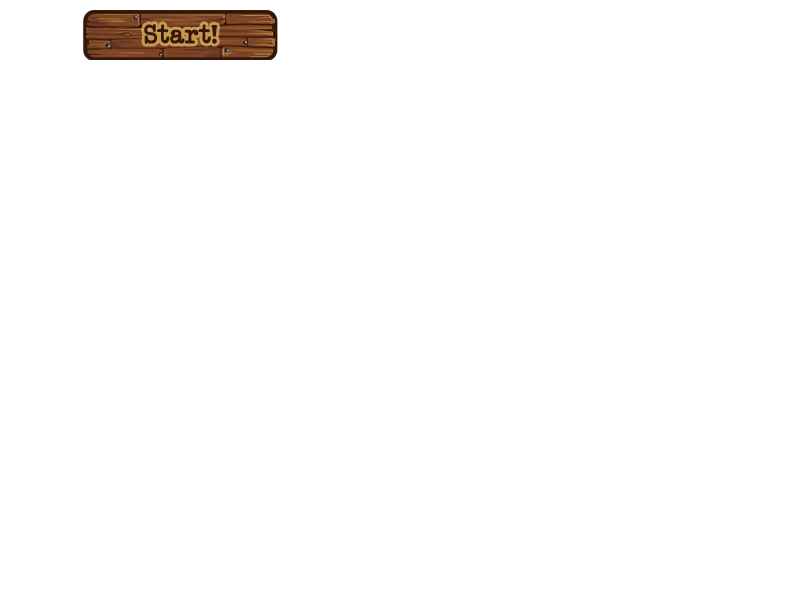
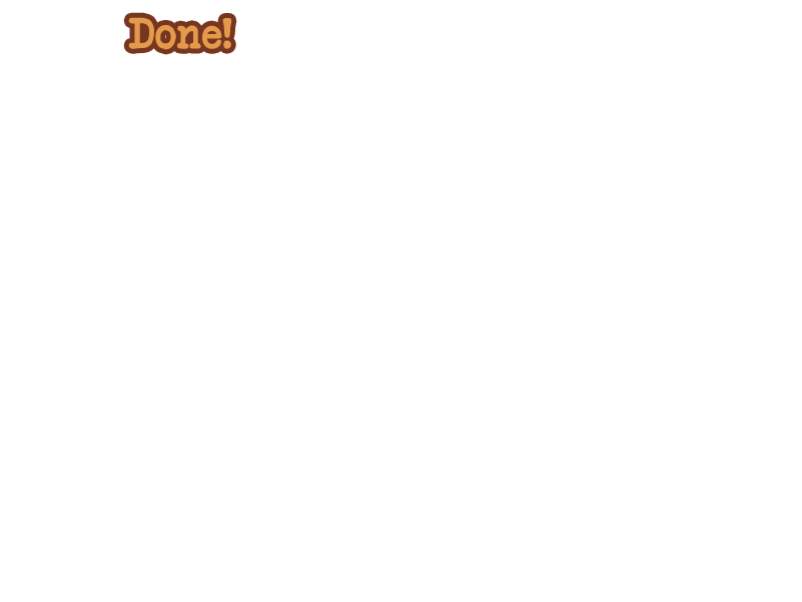
Adjusted done png, added start png, centered start button

Changed region(s): [[0.0936, 0.0, 0.3745, 0.1198]]

diff --git a/js/screens.js b/js/screens.js
@@ -6,6 +6,7 @@ function LoadingScreen( stage, gameState ){
     this.pictureFront = new createjs.Bitmap( "res/screens/LoadingScreen/PanFront.png" );
     this.cooking = new createjs.Bitmap( "res/screens/LoadingScreen/TextCooking.png" );
     this.done = new createjs.Bitmap( "res/screens/LoadingScreen/TextDone.png" );
+	this.start = new createjs.Bitmap( "res/screens/LoadingScreen/TextStart.png" );
     this.turkeyState = [ new createjs.Bitmap( "res/screens/LoadingScreen/Turkey0.png" ),
     					 new createjs.Bitmap( "res/screens/LoadingScreen/Turkey25.png" ),
     					 new createjs.Bitmap( "res/screens/LoadingScreen/Turkey50.png" ),
@@ -13,6 +14,7 @@ function LoadingScreen( stage, gameState ){
     					 new createjs.Bitmap( "res/screens/LoadingScreen/TurkeyDone.png" ) ];
 
 	this.done.alpha= 0;
+	this.start.alpha = 0;
 	stage.addChild( this.picture );
 	stage.addChild( this.cooking );
 	stage.addChild( this.turkeyState[0] );
@@ -29,6 +31,7 @@ function LoadingScreen( stage, gameState ){
 			that.lastPercent = percent;
 			stage.addChild( that.turkeyState[wholeNum] );
 			stage.addChild( that.pictureFront );
+			stage.addChild( that.start );
 		}
 
 		//If we're still on image one, don't fade it out, it's the base image!
@@ -40,10 +43,11 @@ function LoadingScreen( stage, gameState ){
 			that.turkeyState[4].alpha = 1;
 			that.cooking.alpha=0;
 			that.done.alpha = 1;
+			that.start.alpha = 2;
 
-			that.done.addEventListener( "mouseover", function(){ document.body.style.cursor='pointer'; } );
-		 	that.done.addEventListener( "mouseout", function(){ document.body.style.cursor='default'; } );
- 			that.done.addEventListener( "click",  function(){ gameState.pubsub.publish("SwitchScreen", "MainScreen"); });
+			that.start.addEventListener( "mouseover", function(){ document.body.style.cursor='pointer'; } );
+		 	that.start.addEventListener( "mouseout", function(){ document.body.style.cursor='default'; } );
+ 			that.start.addEventListener( "click",  function(){ gameState.pubsub.publish("SwitchScreen", "MainScreen"); });
 
 			that.turkeyState[4].addEventListener( "mouseover", function(){ document.body.style.cursor='pointer'; } );
 		 	that.turkeyState[4].addEventListener( "mouseout", function(){ document.body.style.cursor='default'; } );
@@ -53,6 +57,7 @@ function LoadingScreen( stage, gameState ){
 
 	stage.addChild( this.done );
 	stage.addChild( this.pictureFront );
+
 
 	return {
 		blit : function(){
